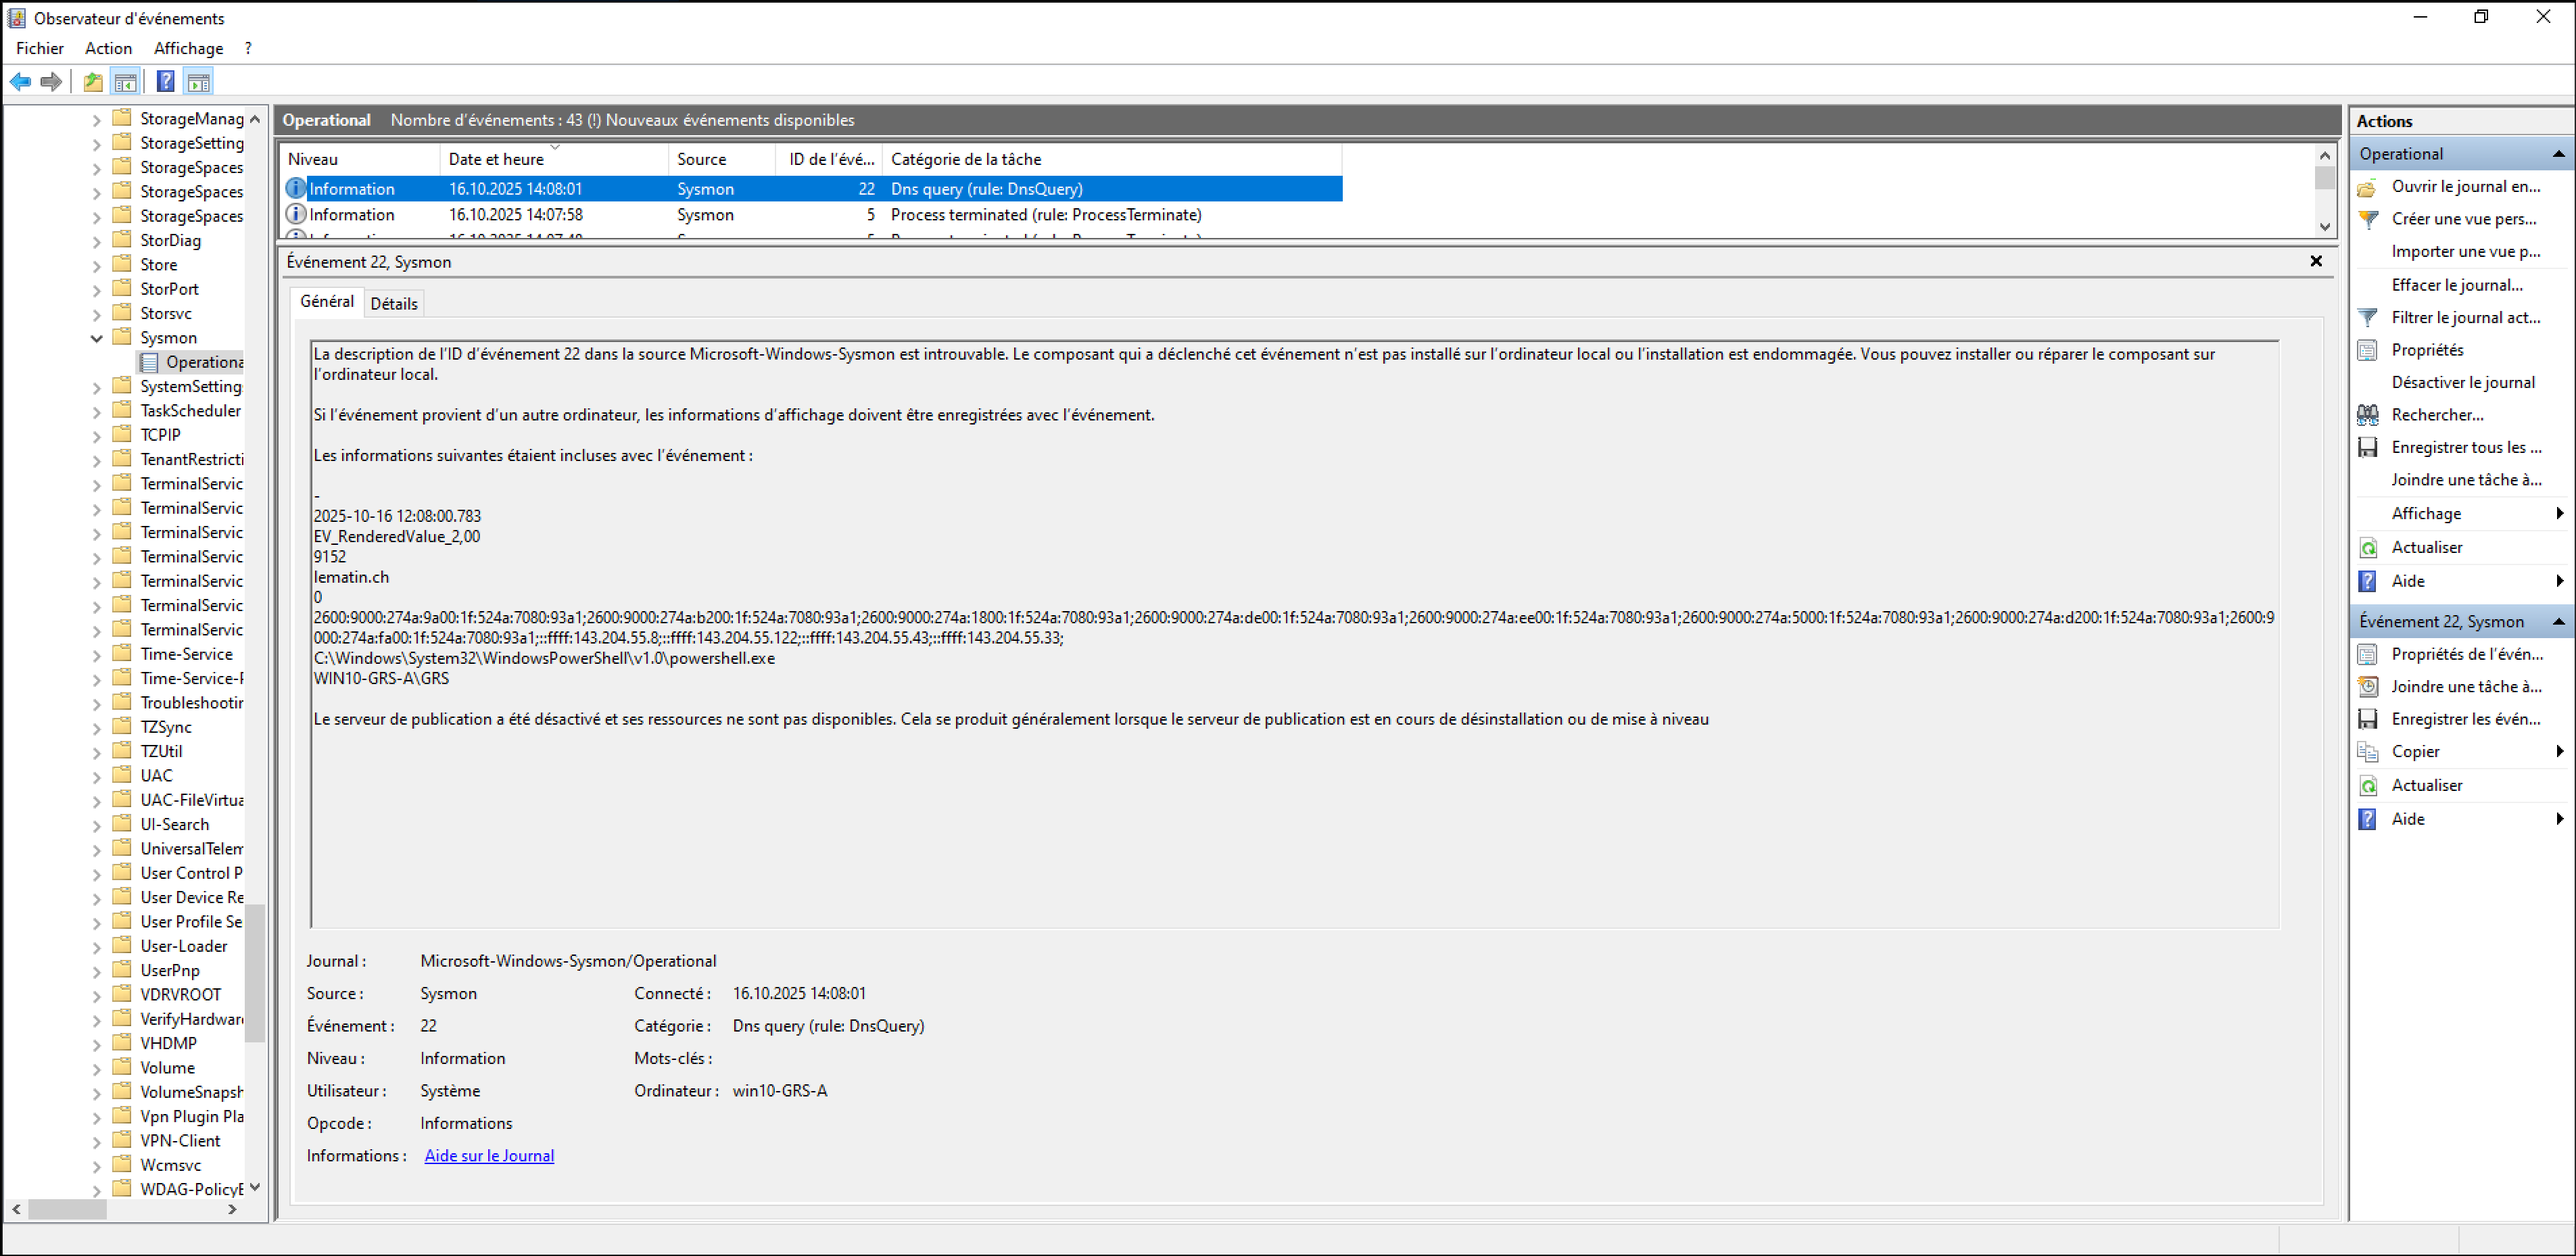
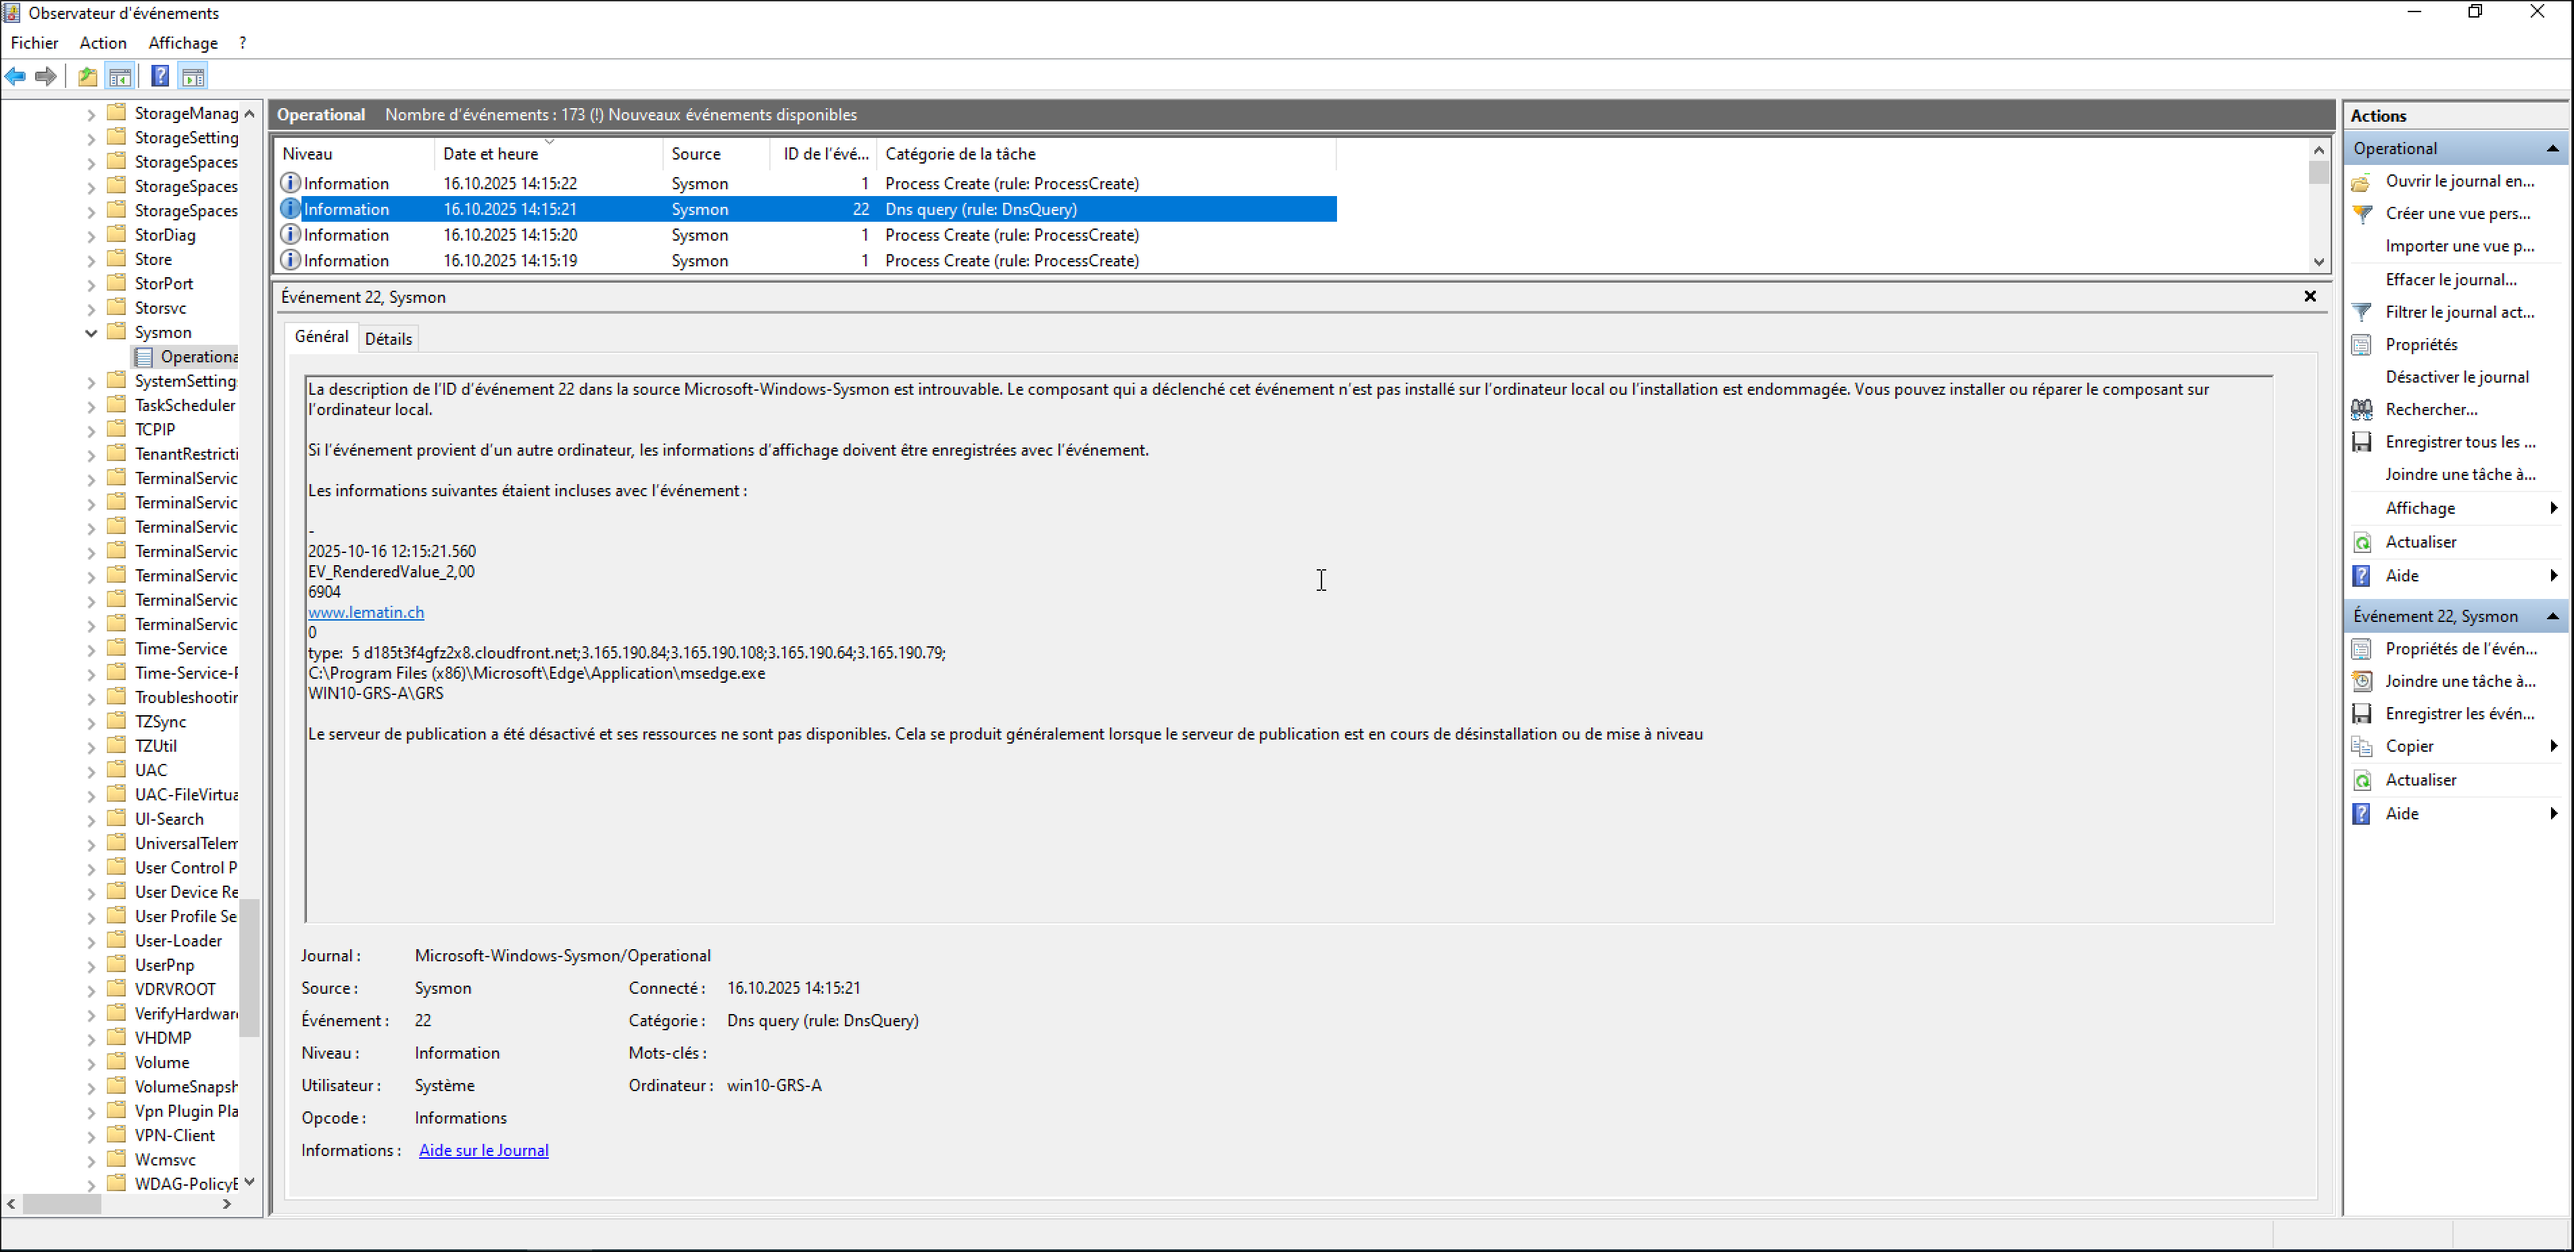
17

Changed region(s): [[0.0, 0.0, 1.0, 1.0]]

diff --git a/Lab01/rapport.md b/Lab01/rapport.md
@@ -330,4 +330,6 @@ soient journalisée et visible dans l’Observateur d’événements.
 
 >17. Montrez le message reçu.
 
-[Image](img_q17.png) -> Aller dans **Journaux des applications et des services** -> **Microsoft** -> **Windows** -> **Sysmon** -> **Operational**
+[Image](img_q17.png) 
+[Image](img_q17_2.png)
+-> Aller dans **Journaux des applications et des services** -> **Microsoft** -> **Windows** -> **Sysmon** -> **Operational**
